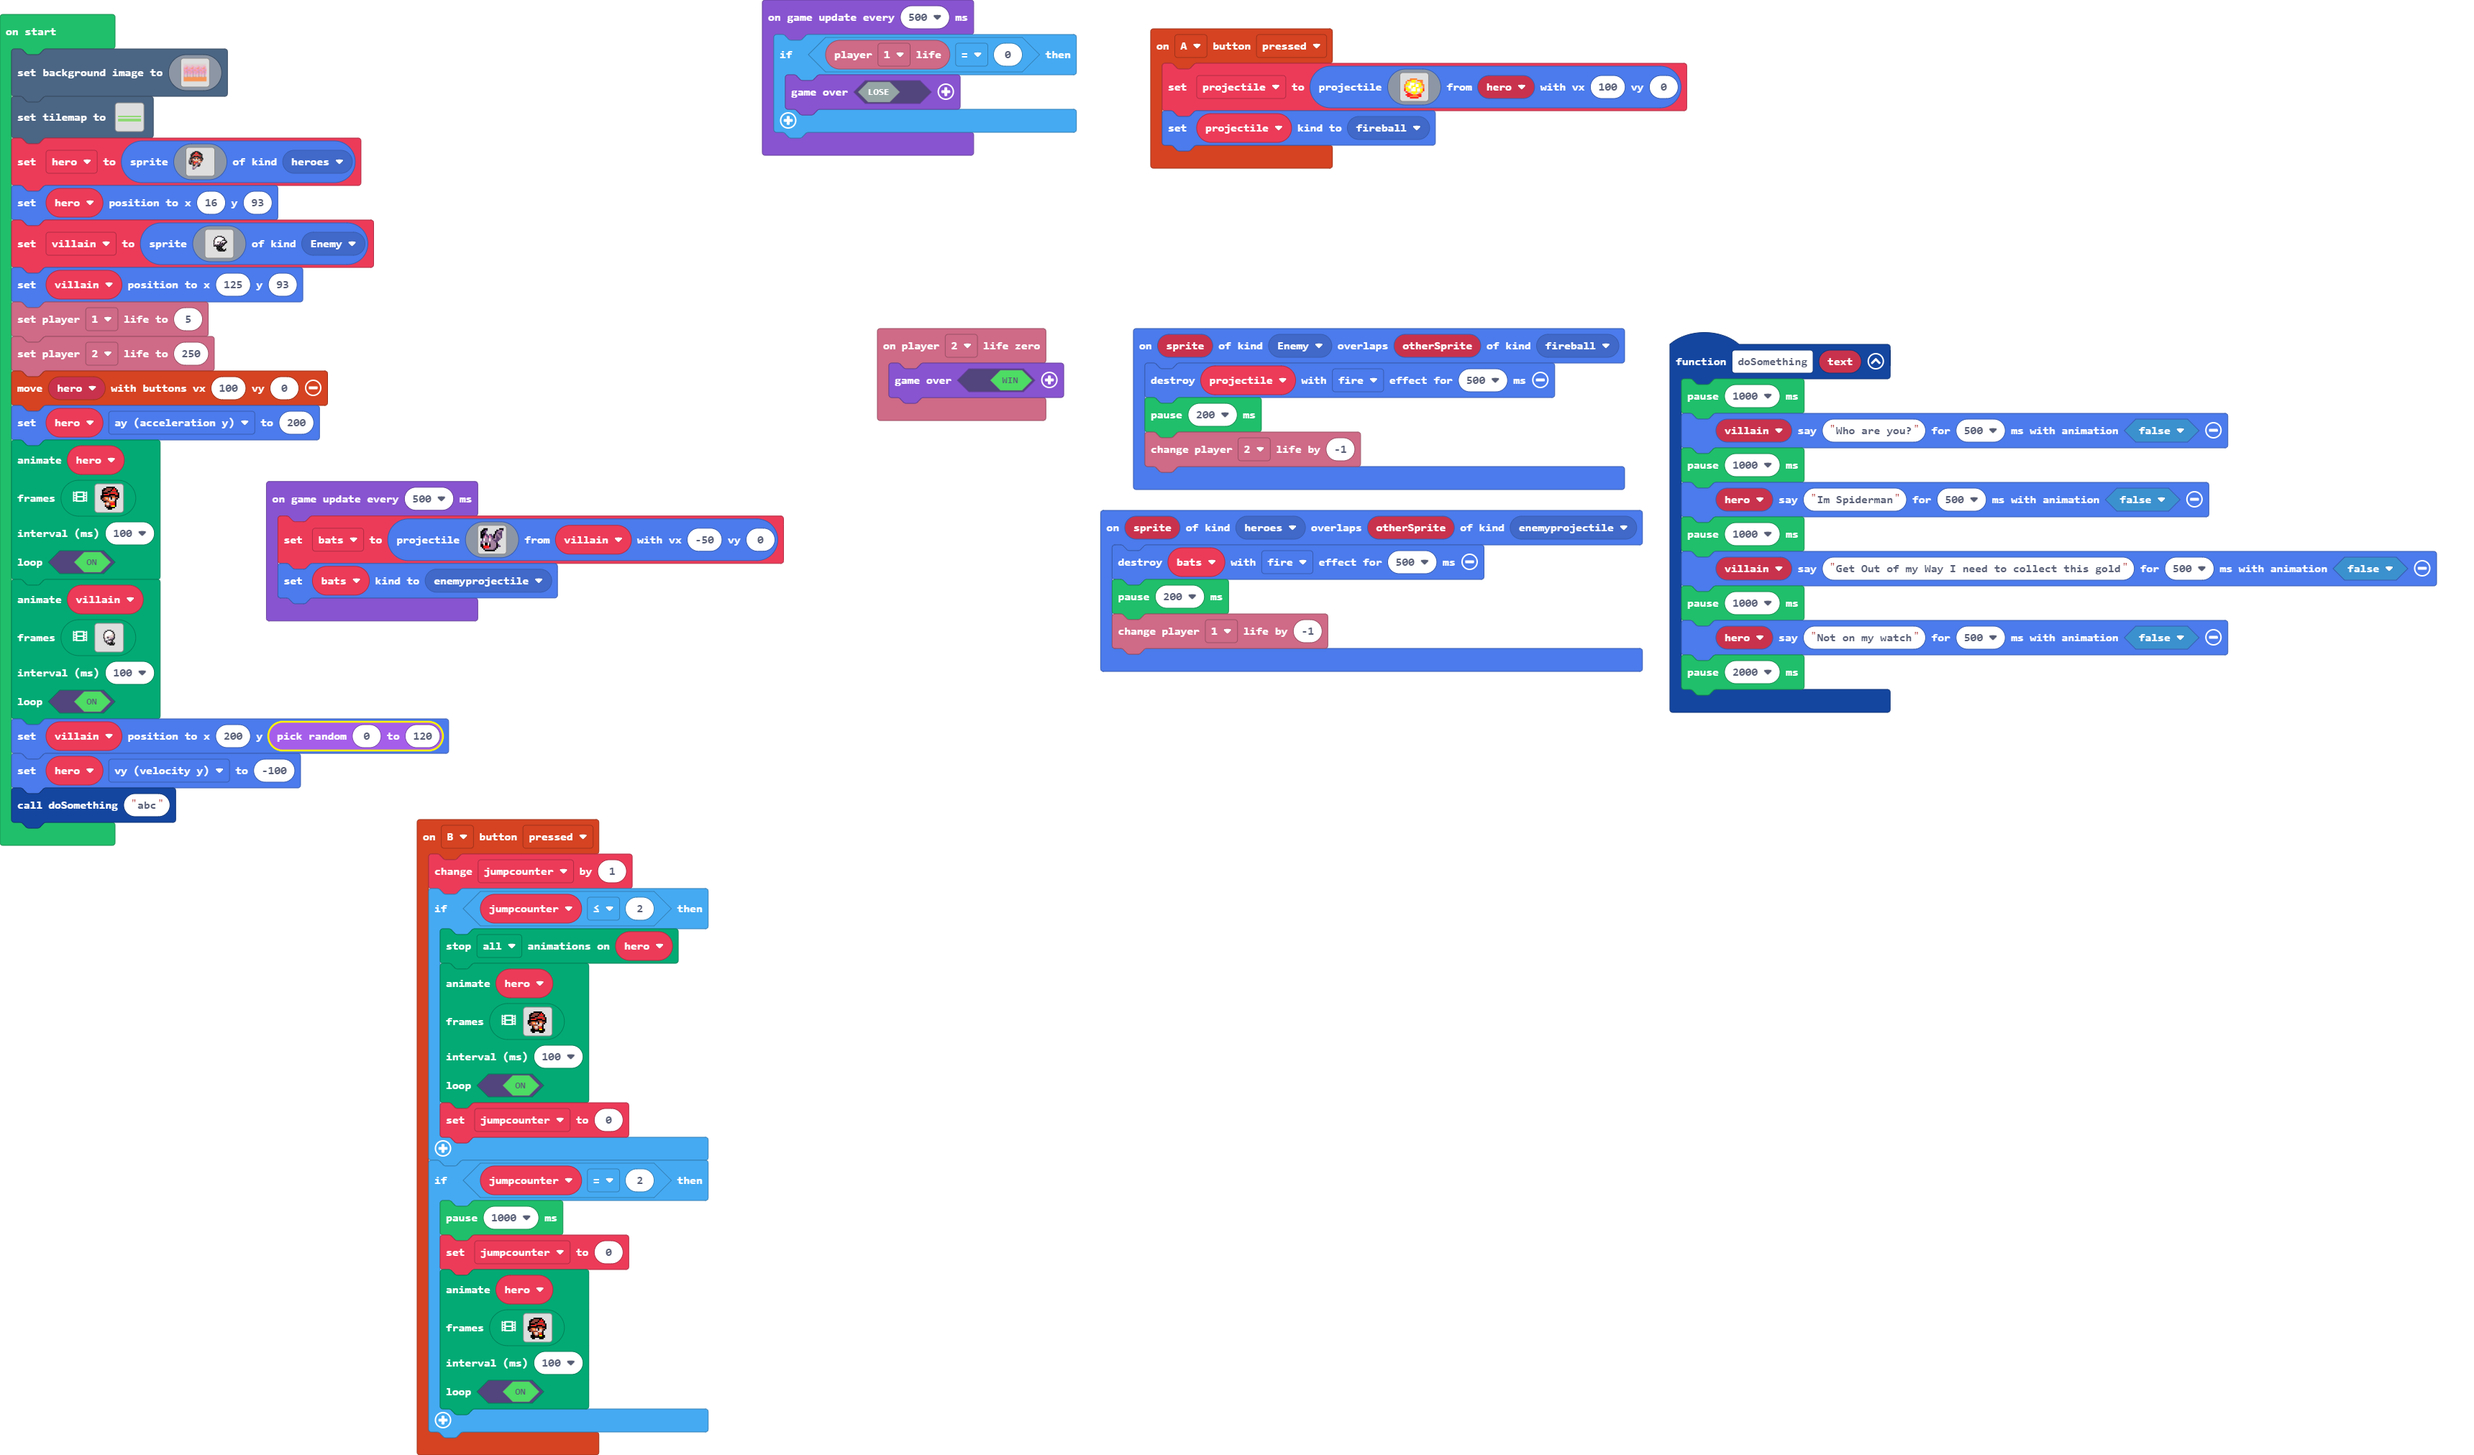
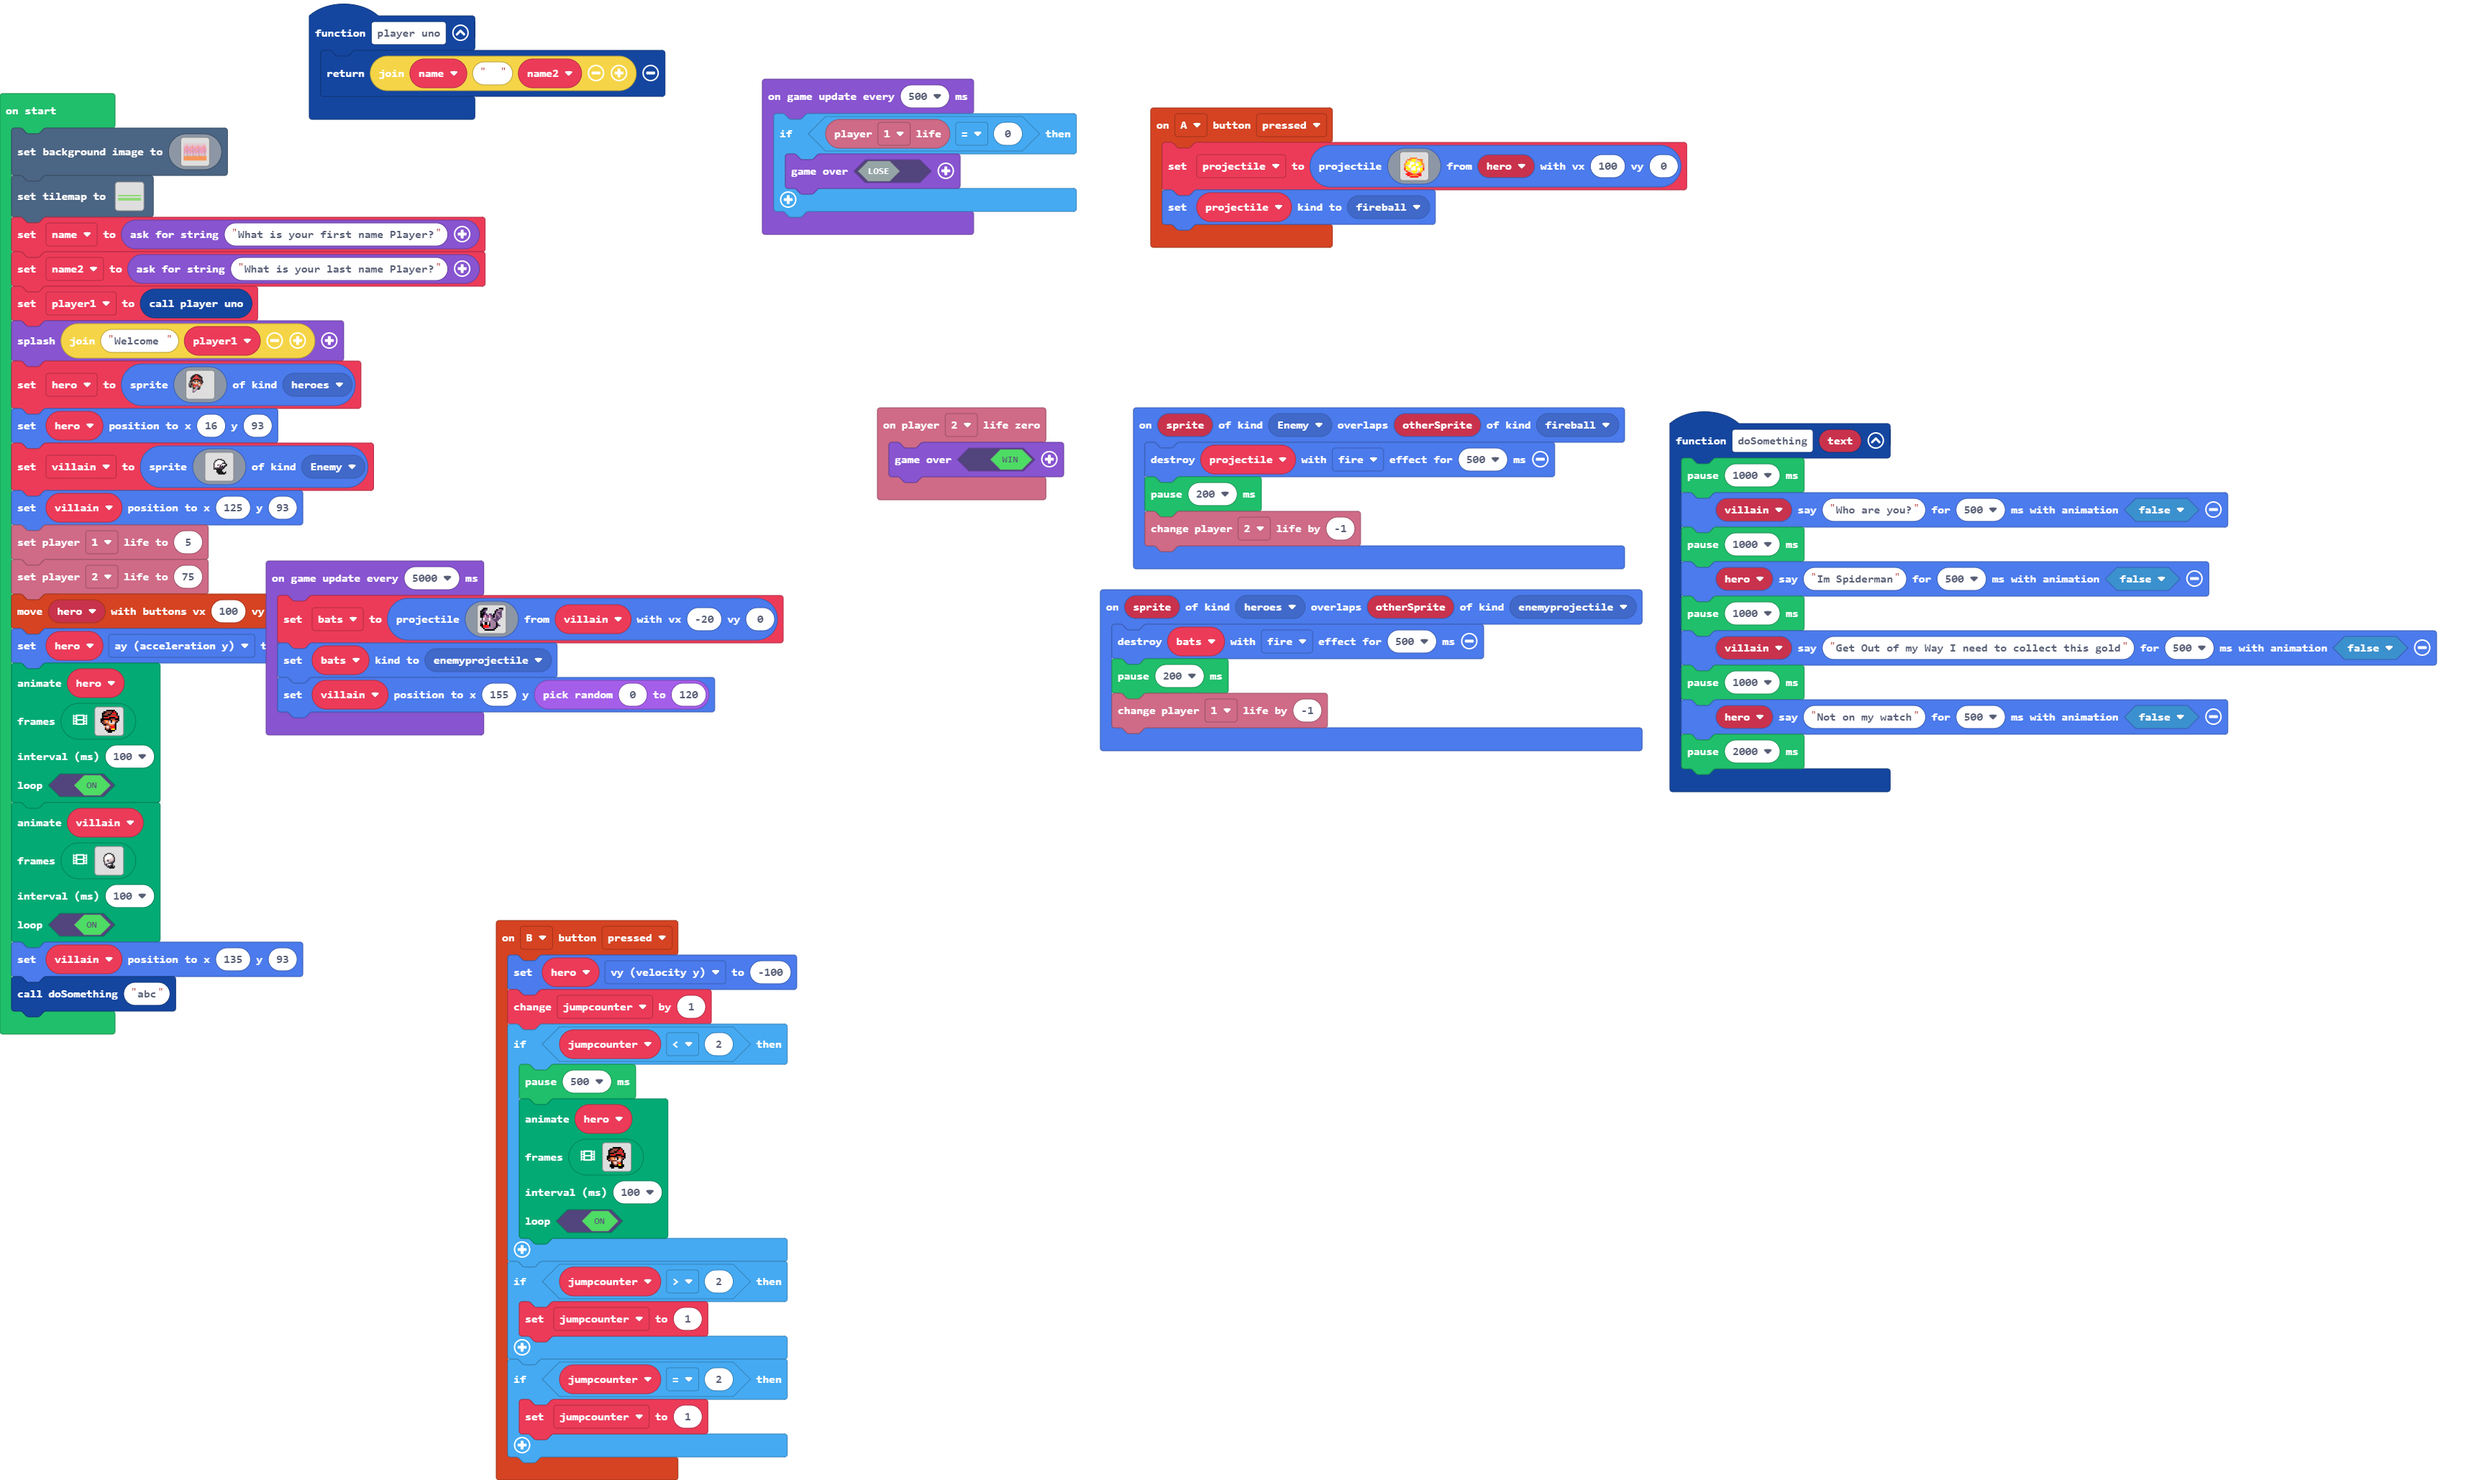
Update main.blocks, main.ts

diff --git a/main.ts b/main.ts
@@ -3,10 +3,14 @@ namespace SpriteKind {
     export const enemyprojectile = SpriteKind.create()
     export const fireball = SpriteKind.create()
 }
+function player_uno () {
+    return "" + name + "  " + name2
+}
 controller.B.onEvent(ControllerButtonEvent.Pressed, function () {
+    hero.vy = -100
     jumpcounter += 1
-    if (jumpcounter <= 2) {
-        animation.stopAnimation(animation.AnimationTypes.All, hero)
+    if (jumpcounter < 2) {
+        pause(500)
         animation.runImageAnimation(
         hero,
         [img`
@@ -81,85 +85,12 @@ controller.B.onEvent(ControllerButtonEvent.Pressed, function () {
         100,
         true
         )
-        jumpcounter = 0
+    }
+    if (jumpcounter > 2) {
+        jumpcounter = 1
     }
     if (jumpcounter == 2) {
-        pause(1000)
-        jumpcounter = 0
-        animation.runImageAnimation(
-        hero,
-        [img`
-            . . . . . . . . . . . . . . . . 
-            . . . . . f f f f f f . . . . . 
-            . . . f f e e e e f 2 f . . . . 
-            . . f f e e e e f 2 2 2 f . . . 
-            . . f e e e f f e e e e f . . . 
-            . . f f f f e e 2 2 2 2 e f . . 
-            . . f e 2 2 2 f f f f e 2 f . . 
-            . f f f f f f f e e e f f f . . 
-            . f f e 4 4 e b f 4 4 e e f . . 
-            . f e e 4 d 4 1 f d d e f . . . 
-            . . f e e e e e d d d f . . . . 
-            . . . . f 4 d d e 4 e f . . . . 
-            . . . . f e d d e 2 2 f . . . . 
-            . . . f f f e e f 5 5 f f . . . 
-            . . . f f f f f f f f f f . . . 
-            . . . . f f . . . f f f . . . . 
-            `,img`
-            . . . . . f f f f f f . . . . . 
-            . . . f f e e e e f 2 f . . . . 
-            . . f f e e e e f 2 2 2 f . . . 
-            . . f e e e f f e e e e f . . . 
-            . . f f f f e e 2 2 2 2 e f . . 
-            . . f e 2 2 2 f f f f e 2 f . . 
-            . f f f f f f f e e e f f f . . 
-            . f f e 4 4 e b f 4 4 e e f . . 
-            . f e e 4 d 4 1 f d d e f f . . 
-            . . f e e e 4 d d d d f d d f . 
-            . . . f f e e 4 e e e f b b f . 
-            . . . . f 2 2 2 4 d d e b b f . 
-            . . . . e 2 2 2 e d d e b f . . 
-            . . . . f 4 4 4 f e e f f . . . 
-            . . . . . f f f f f f . . . . . 
-            . . . . . . f f f . . . . . . . 
-            `,img`
-            . . . . . . . . . . . . . . . . 
-            . . . . . f f f f f f . . . . . 
-            . . . f f e e e e f 2 f . . . . 
-            . . f f e e e e f 2 2 2 f . . . 
-            . . f e e e f f e e e e f . . . 
-            . . f f f f e e 2 2 2 2 e f . . 
-            . . f e 2 2 2 f f f f e 2 f . . 
-            . f f f f f f f e e e f f f . . 
-            . f f e 4 4 e b f 4 4 e e f . . 
-            . f e e 4 d 4 1 f d d e f . . . 
-            . . f e e e e e d d d f . . . . 
-            . . . . f 4 d d e 4 e f . . . . 
-            . . . . f e d d e 2 2 f . . . . 
-            . . . f f f e e f 5 5 f f . . . 
-            . . . f f f f f f f f f f . . . 
-            . . . . f f . . . f f f . . . . 
-            `,img`
-            . . . . . . . . . . . . . . . . 
-            . . . . . f f f f f f . . . . . 
-            . . . f f e e e e f 2 f . . . . 
-            . . f f e e e e f 2 2 2 f . . . 
-            . . f e e e f f e e e e f . . . 
-            . . f f f f e e 2 2 2 2 e f . . 
-            . . f e 2 2 2 f f f f e 2 f . . 
-            . f f f f f f f e e e f f f . . 
-            . f f e 4 4 e b f 4 4 e e f . . 
-            . f e e 4 d 4 1 f d d e f f . . 
-            . . f e e e 4 d d d d f d d f . 
-            . . . . f e e 4 e e e f b b f . 
-            . . . . f 2 2 2 4 d d e b b f . 
-            . . . f f 4 4 4 e d d e b f . . 
-            . . . f f f f f f e e f f . . . 
-            . . . . f f . . . f f f . . . . 
-            `],
-        100,
-        true
-        )
+        jumpcounter = 1
     }
 })
 sprites.onOverlap(SpriteKind.heroes, SpriteKind.enemyprojectile, function (sprite, otherSprite) {
@@ -212,6 +143,8 @@ let bats: Sprite = null
 let jumpcounter = 0
 let villain: Sprite = null
 let hero: Sprite = null
+let name2 = ""
+let name = ""
 scene.setBackgroundImage(img`
     dddddddddddddddddddddddddddddddddddddddddddddddddddddddddddddddddddddddddddddddddddddddddddddddddddddddddddddddddddddddddddddddddddddddddddddddddddddddddddddddd
     dddddddddddddddddddddddddddddddddddddddddddddddddddddddddddddddddddddddddddddddddddddddddddddddddddddddddddddddddddddddddddddddddddddddddddddddddddddddddddddddd
@@ -335,6 +268,10 @@ scene.setBackgroundImage(img`
     4444444444444444444444444444444444444444444444444444444444444444444444444444444444444444444444444444444444444444444444444444444444444444444444444444444444444444
     `)
 tiles.setTilemap(tilemap`level1`)
+name = game.askForString("What is your first name Player?")
+name2 = game.askForString("What is your last name Player?")
+let player1 = player_uno()
+game.splash("Welcome " + player1)
 hero = sprites.create(img`
     ........................
     ......ffff..............
@@ -390,7 +327,7 @@ villain = sprites.create(img`
     `, SpriteKind.Enemy)
 villain.setPosition(125, 93)
 info.player1.setLife(5)
-info.player2.setLife(250)
+info.player2.setLife(75)
 controller.moveSprite(hero, 100, 0)
 hero.ay = 200
 animation.runImageAnimation(
@@ -523,15 +460,9 @@ villain,
 100,
 true
 )
-villain.setPosition(200, randint(0, 120))
-hero.vy = -100
+villain.setPosition(135, 93)
 doSomething("abc")
-game.onUpdateInterval(500, function () {
-    if (info.player1.life() == 0) {
-        game.over(false)
-    }
-})
-game.onUpdateInterval(500, function () {
+game.onUpdateInterval(5000, function () {
     bats = sprites.createProjectileFromSprite(img`
         . . f f f . . . . . . . . f f f 
         . f f c c . . . . . . f c b b c 
@@ -549,6 +480,12 @@ game.onUpdateInterval(500, function () {
         . f 2 2 2 2 b b b b c f . . . . 
         . . f b b b b b b c f . . . . . 
         . . . f f f f f f f . . . . . . 
-        `, villain, -50, 0)
+        `, villain, -20, 0)
     bats.setKind(SpriteKind.enemyprojectile)
+    villain.setPosition(155, randint(0, 120))
+})
+game.onUpdateInterval(500, function () {
+    if (info.player1.life() == 0) {
+        game.over(false)
+    }
 })
